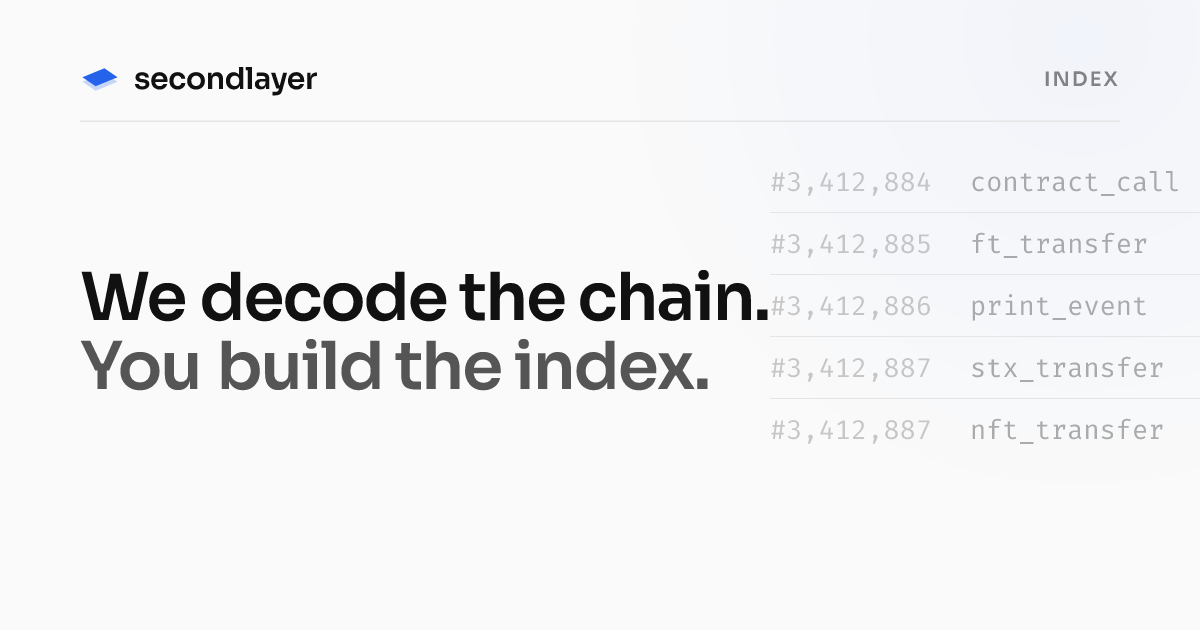
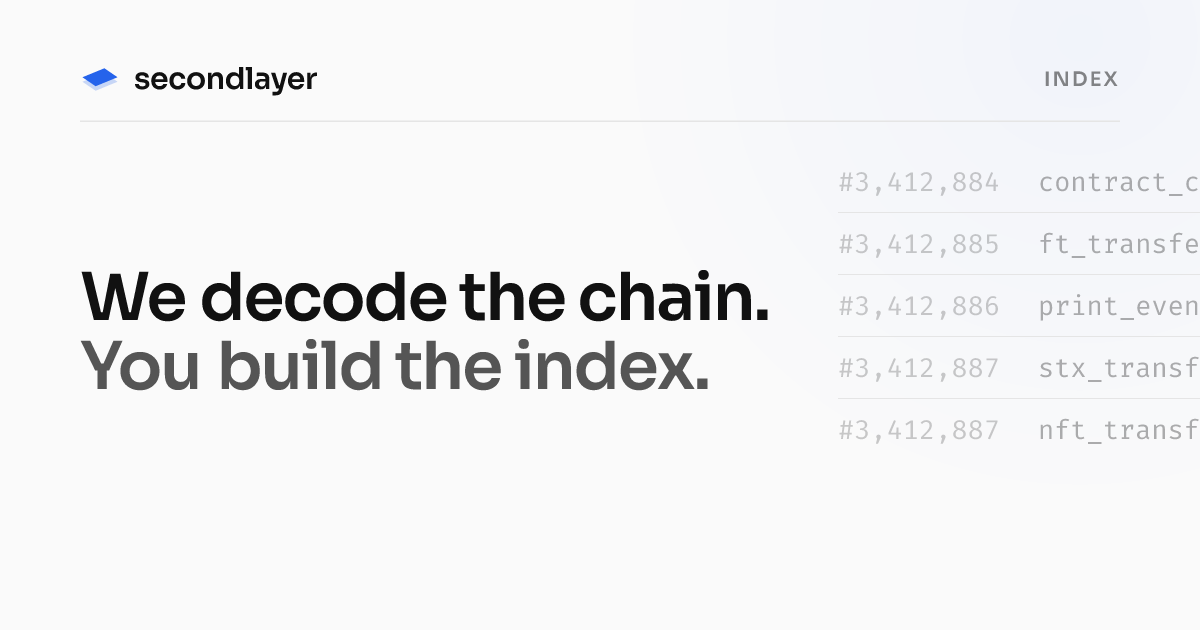
fix(web): resolve OG card overlaps on home/index/streams

diff --git a/apps/web/scripts/generate-og.tsx b/apps/web/scripts/generate-og.tsx
@@ -148,7 +148,7 @@ function ArtStreams() {
 				/>
 				<Line tokens={[["});", BASE]]} />
 			</Card>
-			<Card style={{ position: "absolute", top: 388, left: 895, width: 640 }}>
+			<Card style={{ position: "absolute", top: 492, left: 895, width: 640 }}>
 				<Line tokens={[["{", BASE]]} />
 				<Line
 					indent={2}
@@ -210,7 +210,7 @@ function ArtIndex() {
 			style={{
 				position: "absolute",
 				top: 150,
-				left: 770,
+				left: 838,
 				display: "flex",
 				flexDirection: "column",
 				width: 800,
@@ -488,7 +488,7 @@ function ArtHome() {
 			<Card
 				style={{
 					position: "absolute",
-					top: 344,
+					top: 312,
 					left: 870,
 					width: 700,
 					fontSize: 27,